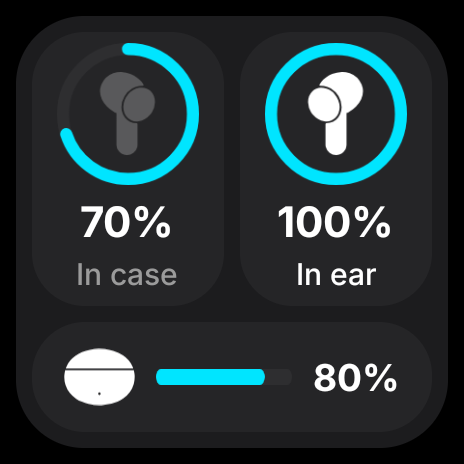
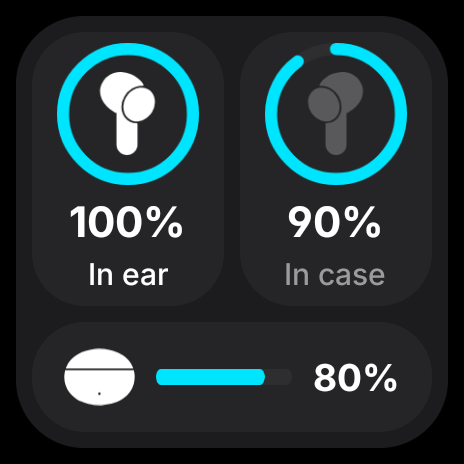
3.4.0: Match system, new White, firmware version, retaken screenshots

diff --git a/README.md b/README.md
@@ -49,11 +49,12 @@ Every size has a battery page and a controls page; switch with the swap button o
   Saved on the earbuds.
 - **High-quality audio (LHDC), 3D audio and Low latency mode.**
 - **Gestures** per bud: taps, slide and hold, plus the on-call gestures.
-- **Wear detection**, **Dual connection**, **Find my earbuds** and the earbuds' prompt volume.
+- **Wear detection**, **Dual connection**, **Find my earbuds**, the earbuds' prompt volume and their
+  firmware version.
 - **Home-screen widgets** in three sizes (2×2, 3×3, 4×2). Each has a battery page and a noise
   control + Low latency page, in your theme's colours.
-- **Themes:** OLED Black, Classic Dark and White, your own accent colour, and up to 3 custom colour
-  presets. Reorder or hide the home screen rows.
+- **Themes:** OLED Black, Classic Dark and White, or match the system's light / dark setting. Your own
+  accent colour and up to 3 custom colour presets. Reorder or hide the home screen rows.
 - **27 languages**, switchable inside the app.
 - **Update check** from inside the app, straight from GitHub releases.
 
